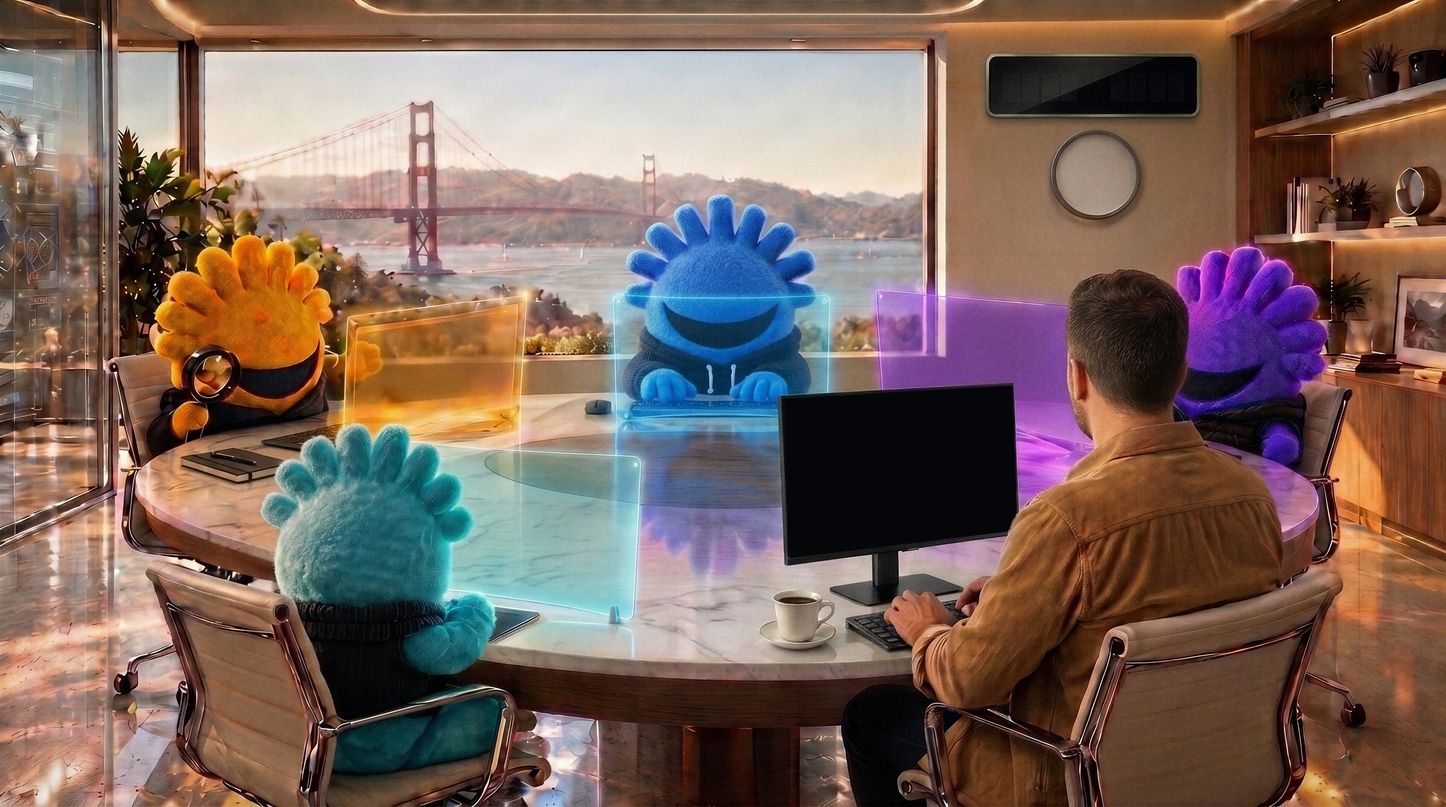
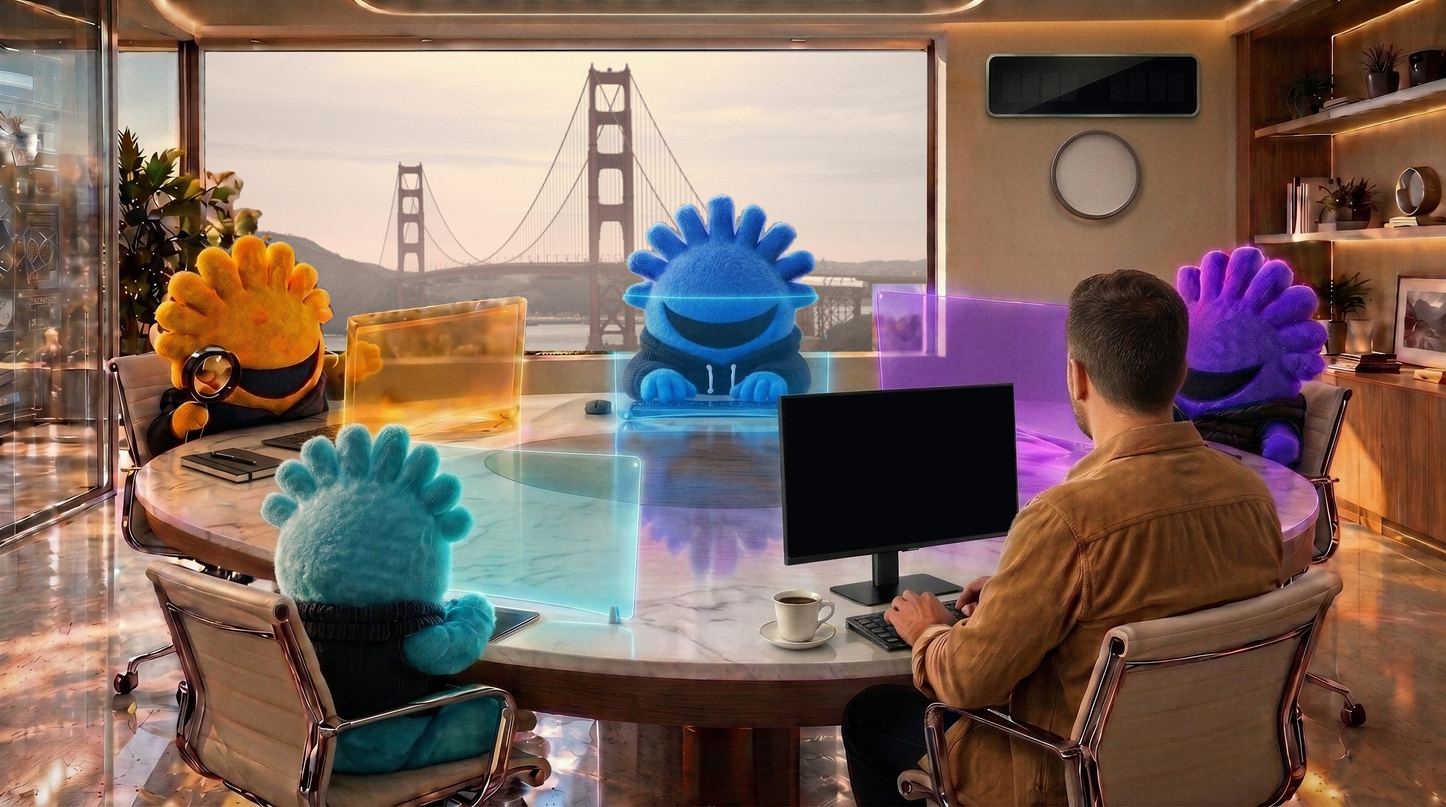
Studio master: real Golden Gate photo behind the window, graded to golden hour
Claude-Session: https://claude.ai/code/session_011sjKMp3SX3i7n59sJZgH9u

Changed region(s): [[0.125, 0.0616, 0.6562, 0.462]]

diff --git a/docs/landing-braindy-co/scripts/window-plate.py b/docs/landing-braindy-co/scripts/window-plate.py
@@ -1,0 +1,37 @@
+# Replace the generated window view with a real Golden Gate photo (graded to golden hour) behind the glass.
+# Inputs: the 4K master with black screen, the stock photo and SAM masks of the foreground (Brains, plant, holograms) exported from Magnific.
+import numpy as np
+from PIL import Image, ImageFilter, ImageDraw
+base=Image.open('../gen/up4x_black.jpg').convert('RGB'); W,H=base.size
+plate=Image.open('gg_full.jpg').convert('RGB')
+WX0,WY0,WX1,WY1=782,198,3528,1337
+s=(WX1-WX0)/plate.size[0]
+pw,ph=WX1-WX0,int(plate.size[1]*s)
+pl=plate.resize((pw,ph),Image.LANCZOS)
+top=420*s                       # plate y=214 lands at the window top
+crop=pl.crop((0,int(top),pw,int(top)+(WY1-WY0)))
+a=np.asarray(crop).astype(float)/255
+# grade: blue hour -> warm golden hour, lifted and hazy like a real interior shot
+lum=a.mean(-1,keepdims=True)
+a=a*0.55+lum*0.45                                  # desaturate a bit
+a=np.clip((a-0.02)*1.35+0.08,0,1)                  # lift exposure
+warm=np.array([1.10,0.98,0.84]); a=np.clip(a*warm,0,1)
+yy=np.linspace(0,1,a.shape[0])[:,None,None]
+haze=np.array([0.96,0.86,0.78])                    # warm atmospheric haze, stronger near the horizon
+hz=0.30+0.20*np.exp(-((yy-0.72)/0.18)**2)
+a=a*(1-hz)+haze*hz
+img=Image.fromarray((a*255).astype('uint8')).filter(ImageFilter.GaussianBlur(1.6))
+g=np.random.default_rng(3).normal(0,4.5,(img.size[1],img.size[0],1))
+img=Image.fromarray(np.clip(np.asarray(img).astype(float)+g,0,255).astype('uint8'))
+full=Image.new('RGB',(W,H)); full.paste(img,(WX0,WY0))
+L=lambda f: np.asarray(Image.open(f).convert('L'))>127
+fg=L('f_blue.png')|L('f_yellow.png')|L('f_plant.png')|L('f_holo.png')
+m=np.zeros((H,W),bool); m[WY0:WY1,WX0:WX1]=True
+m&=~fg
+m[1080:,3320:]=False                               # violet hologram corner
+mk=Image.fromarray((m*255).astype('uint8')).filter(ImageFilter.GaussianBlur(1.5))
+out=Image.composite(full,base,mk)
+out.save('../gen/up4x_window.jpg',quality=93)
+out.resize((1376,768),Image.LANCZOS).save('win_preview.jpg',quality=85)
+out.crop((700,150,3600,1400)).resize((1450,625),Image.LANCZOS).save('win_crop.jpg',quality=85)
+print('ok')
